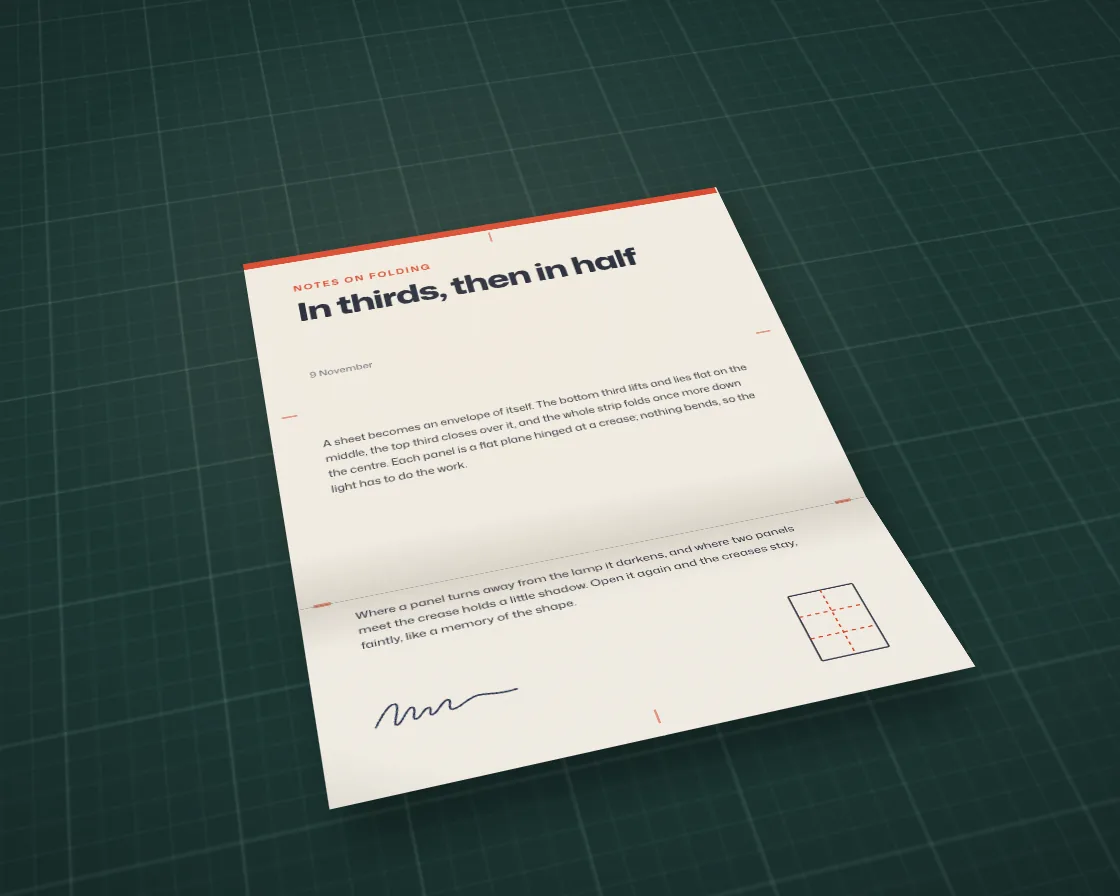
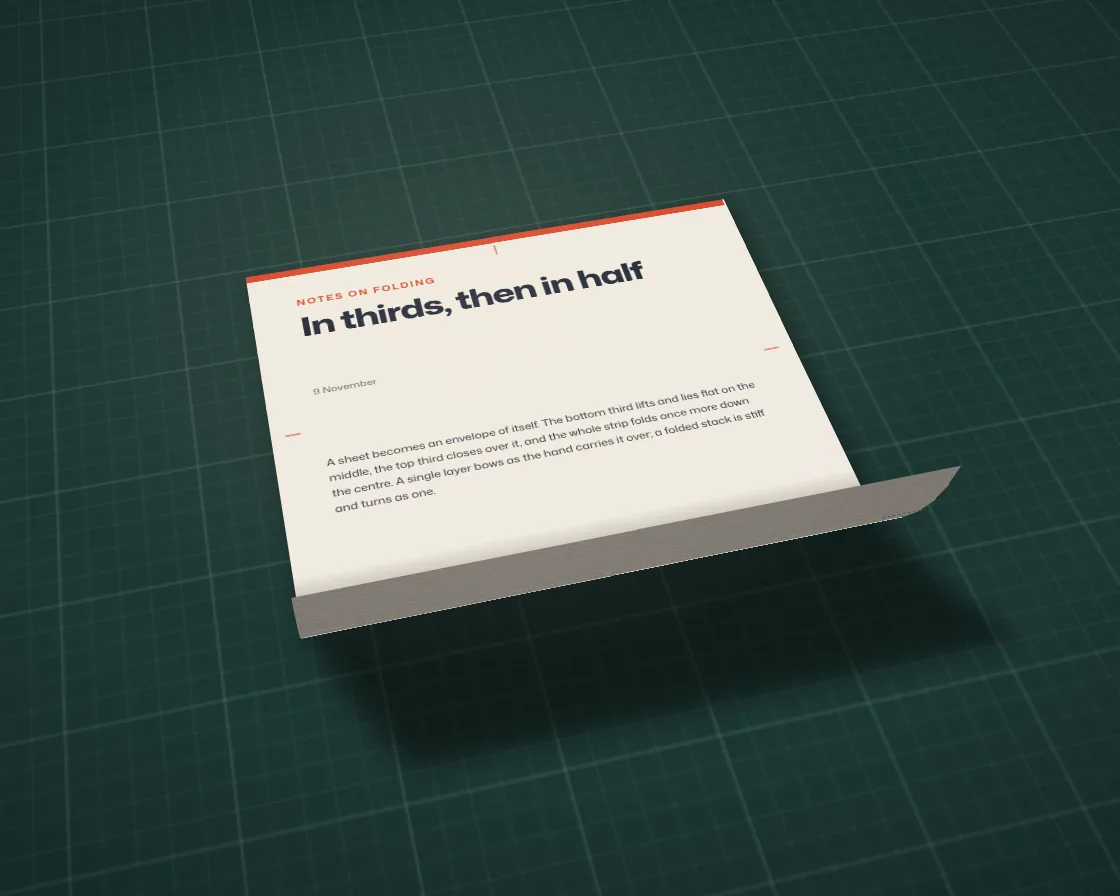
Paper fold: hand-paced folds, bowing flaps, per-panel shadows
Every crease turns on a minimum-jerk path (peak panel speed 56-72 -> 15-20 px/frame at 1280x760,
frame-to-frame jolts under 1 px); steps overlap; loose flaps are strip chains that bow edge-first
with gradient shading across strips; each panel casts a projected shadow; the recentring slide
follows the steps' progress. Default cycle 10 s.

diff --git a/anims/chrome/paper-fold.js b/anims/chrome/paper-fold.js
@@ -4,8 +4,12 @@
 // fold is a tree of hinges: the crease folded last is the outermost hinge and carries everything already folded, so the
 // stack lands the way paper does, its layers in the right order. Every panel is shaded from its true 3D normal, turned
 // through its hinges, against a desk lamp; creases darken on the inside, catch the light on the outside and stay faintly
-// marked; the shadow on the mat follows the folded footprint, and the sheet slides to keep that footprint centred.
-const PARAMS = { fold: 0, cycle: 9, tilt: 46, crease: 1 };
+// marked. The motion is a hand's: every crease turns on a minimum-jerk path, so it leaves and lands with no sudden change
+// of speed; each step starts just before the last one settles; a loose flap (one layer) is a chain of thin strips that
+// bows as it is carried over, edge first, and lies flat when it lands, while a folded stack stays stiff. Each panel
+// casts its own shadow onto the mat along the lamp's direction, and the sheet slides to keep its footprint centred,
+// in step with the folds.
+const PARAMS = { fold: 0, cycle: 10, tilt: 46, crease: 1 };
 
 export default function (stage) {
   const root = document.createElement('div');
@@ -20,11 +24,14 @@ export default function (stage) {
       linear-gradient(90deg,rgba(220,255,240,.11) 1px,transparent 1px) 0 0/calc(var(--g)*5) calc(var(--g)*5),
       linear-gradient(rgba(220,255,240,.045) 1px,transparent 1px) 0 0/var(--g) var(--g),
       linear-gradient(90deg,rgba(220,255,240,.045) 1px,transparent 1px) 0 0/var(--g) var(--g),#1c3633}
-    .pf-shadow{position:absolute;background:rgba(4,10,9,.9);filter:blur(calc(var(--h)*.025));border-radius:2px;transform-origin:0 0}
+    .pf-shs{position:absolute;left:0;top:0;transform:translateZ(-1px);filter:blur(calc(var(--h)*.016));opacity:.55}
+    .pf-sh{position:absolute;left:0;top:0;width:100px;height:100px;background:#030807;transform-origin:0 0}
     .pf-n,.pf-p{position:absolute;transform-style:preserve-3d}
     .pf-face{position:absolute;inset:-.5px;overflow:hidden;backface-visibility:hidden;-webkit-backface-visibility:hidden;background:${paper},#f3efe6}
     .pf-back{transform:rotateY(180deg);background:repeating-linear-gradient(45deg,rgba(60,90,140,.07) 0 1px,transparent 1px 4px),repeating-linear-gradient(-45deg,rgba(60,90,140,.05) 0 1px,transparent 1px 4px),${paper},#ebe7de}
     .pf-art{position:absolute;width:var(--w);height:var(--h);font-family:"Mona Sans",system-ui,sans-serif;color:#1b2233}
+    .pf-fx{--dk:linear-gradient(transparent,transparent);--lt:var(--dk);background:var(--dk),var(--lt),${paper},#f3efe6}
+    .pf-fx.pf-back{background:var(--dk),var(--lt),repeating-linear-gradient(45deg,rgba(60,90,140,.07) 0 1px,transparent 1px 4px),repeating-linear-gradient(-45deg,rgba(60,90,140,.05) 0 1px,transparent 1px 4px),${paper},#ebe7de}
     .pf-o{position:absolute;inset:0;opacity:0;pointer-events:none}
     .pf-dk{background:#1a120c}.pf-lt{background:#fff8ec}
     .pf-c{position:absolute;opacity:0;pointer-events:none}
@@ -41,16 +48,16 @@ export default function (stage) {
     .pf-map{position:absolute;inset:0;width:100%;height:100%}
     .pf-lamp{position:absolute;inset:0;pointer-events:none;background:radial-gradient(60% 55% at 42% 36%,rgba(255,236,205,.13),transparent 70%),radial-gradient(130% 110% at 50% 45%,transparent 38%,rgba(0,0,0,.62))}
   </style>
-  <div class="pf-scene"><div class="pf-mat"></div><div class="pf-shadow"></div></div><div class="pf-lamp"></div>`;
+  <div class="pf-scene"><div class="pf-mat"></div><div class="pf-shs"></div></div><div class="pf-lamp"></div>`;
   stage.append(root);
-  const scene = root.querySelector('.pf-scene'), mat = root.querySelector('.pf-mat'), shadow = root.querySelector('.pf-shadow');
+  const scene = root.querySelector('.pf-scene'), mat = root.querySelector('.pf-mat'), shadows = root.querySelector('.pf-shs');
 
   // ── the printed side of each sheet: one full-size layout, cropped into every panel
   const sig = `<svg class="pf-sig" viewBox="0 0 120 40" fill="none" stroke="#24304f" stroke-width="1.6" stroke-linecap="round"><path d="M4 28c8-14 14-22 18-20s-6 22-2 22 10-16 14-15-3 13 1 13 7-9 11-9-2 8 2 8 9-12 14-12c4 0-3 11 2 11 6 0 14-9 22-9s14 4 30 2"/></svg>`;
   const ticks = (xs, ys) => xs.map(x => `<i class="pf-tick" style="left:${x}%;top:1.8%;width:1px;height:2.2%"></i><i class="pf-tick" style="left:${x}%;bottom:1.5%;width:1px;height:2.2%"></i>`).join('')
     + ys.map(y => `<i class="pf-tick" style="left:2.5%;top:${y}%;width:3%;height:1px"></i><i class="pf-tick" style="right:2.5%;top:${y}%;width:3%;height:1px"></i>`).join('');
   const LETTER = `<div class="pf-band"></div><div class="pf-kick">Notes on folding</div><div class="pf-title">In thirds, then in half</div><div class="pf-date">9 November</div>
-    <p class="pf-txt" style="top:38.5%">A sheet becomes an envelope of itself. The bottom third lifts and lies flat on the middle, the top third closes over it, and the whole strip folds once more down the centre. Each panel is a flat plane hinged at a crease; nothing bends, so the light has to do the work.</p>
+    <p class="pf-txt" style="top:38.5%">A sheet becomes an envelope of itself. The bottom third lifts and lies flat on the middle, the top third closes over it, and the whole strip folds once more down the centre. A single layer bows as the hand carries it over; a folded stack is stiff and turns as one.</p>
     <p class="pf-txt" style="top:68.5%">Where a panel turns away from the lamp it darkens, and where two panels meet the crease holds a little shadow. Open it again and the creases stay, faintly, like a memory of the shape.</p>
     ${sig}<svg class="pf-diag" viewBox="0 0 60 76" fill="none" stroke="#2e3342" stroke-width="1.2"><rect x="6" y="4" width="48" height="66" rx="1"/><path d="M6 26h48M6 48h48M30 4v66" stroke-dasharray="3 3" stroke="#d8452b"/></svg>
     ${ticks([50], [33.33, 66.67])}`;
@@ -101,21 +108,21 @@ export default function (stage) {
   const zig = (xs, i) => ({ r: [xs[i], 0, 1, 1], h: ['v', xs[i], 0, i % 2 ? -1 : 1, 0, 0.8], p: [[xs[i], 0, xs[i + 1], 1]], k: i + 2 < xs.length ? [zig(xs, i + 1)] : [] });
   const T = 1 / 3, X6 = [0, 1, 2, 3, 4, 5, 6].map(i => i / 6), X4 = [0, 0.25, 0.5, 0.75, 1];
   const FOLDS = [
-    { aspect: 0.773, amount: 1, steps: [[0], [1], [2]], gap: 0.85, art: LETTER,              // bottom up, top down, in half
+    { aspect: 0.773, amount: 1, steps: [[0], [1], [2]], gap: 0.8, art: LETTER, flex: 1,        // bottom up, top down, in half
       root: { r: [0, 0, 1, 1], p: [[0, T, 0.5, 2 * T]], k: [
         { r: [0, 0, 0.5, T], h: ['h', T, 1, 1, 1], p: [[0, 0, 0.5, T]] },
         { r: [0, 2 * T, 0.5, 1], h: ['h', 2 * T, 0, 1, 0.5], p: [[0, 2 * T, 0.5, 1]] },
         { r: [0.5, 0, 1, 1], h: ['v', 0.5, 2, 1, 3], p: [[0.5, T, 1, 2 * T]], k: [
           { r: [0.5, 0, 1, T], h: ['h', T, 1, 1, 1], p: [[0.5, 0, 1, T]] },
           { r: [0.5, 2 * T, 1, 1], h: ['h', 2 * T, 0, 1, 0.5], p: [[0.5, 2 * T, 1, 1]] }] }] } },
-    { aspect: 1.55, amount: 1, steps: [[0], [1], [2]], gap: 0.7, art: GATE,                  // left door, right door, shut
+    { aspect: 1.55, amount: 1, steps: [[0], [1], [2]], gap: 0.78, art: GATE, flex: 1,            // left door, right door, shut
       root: { r: [0, 0, 1, 1], p: [[0.25, 0, 0.5, 1]], k: [
         { r: [0, 0, 0.25, 1], h: ['v', 0.25, 0, 1, 1], p: [[0, 0, 0.25, 1]] },
         { r: [0.5, 0, 1, 1], h: ['v', 0.5, 2, 1, 3], p: [[0.5, 0, 0.75, 1]], k: [
           { r: [0.75, 0, 1, 1], h: ['v', 0.75, 1, 1, 1.6], p: [[0.75, 0, 1, 1]] }] }] } },
     { aspect: 1.85, amount: 1, steps: [[0]], gap: 1, art: ACCORDION,                          // the pleats close up together
       root: { r: [0, 0, 1, 1], h: ['v', 0, 0, 1, 0, 0.4], p: [[0, 0, X6[1], 1]], k: [zig(X6, 1)] } },
-    { aspect: 1.414, amount: 1, steps: [[0, 1, 2], [3]], gap: 1, art: MAP,                    // pleat side to side, then in half
+    { aspect: 1.414, amount: 1, steps: [[0, 1, 2], [3]], gap: 0.85, art: MAP,                    // pleat side to side, then in half
       root: { r: [0, 0, 1, 1], p: [[0, 0, 0.25, 0.5]], k: [pleat(X4, 1, 0, 0.5, [0, 1, 2], [1, -1, 1], 0.8),
         { r: [0, 0.5, 1, 1], h: ['h', 0.5, 3, 1, 6], p: [[0, 0.5, 0.25, 1]], k: [pleat(X4, 1, 0.5, 1, [0, 1, 2], [1, -1, 1], 0.8)] }] } },
   ];
@@ -125,6 +132,21 @@ export default function (stage) {
   const creases = new Map(), key = (ax, v) => ax + v.toFixed(4);
   const amt = h => h[5] ?? F.amount, creaseAmt = [];
   (function walk(nd) { if (nd.h && nd.h[1] > 1e-6 && nd.h[1] < 1 - 1e-6) { creases.set(key(nd.h[0], nd.h[1]), nd.h[2]); creaseAmt[nd.h[2]] = amt(nd.h); } (nd.k || []).forEach(walk); })(F.root);
+  // ── paper lifted by its edge bows: the hand leads and the paper near the crease follows. Each loose flap (one layer,
+  // nothing folded onto it) is cut into NS strips parallel to its crease, each hinged to the one before, and bends by
+  // FLEX radians in all at the middle of its turn, none at either end; a folded stack is stiff and turns flat
+  const FLEX = 0.5, NS = 6;
+  if (F.flex) (function split(nd) {
+    (nd.k || []).forEach(split);
+    if (!nd.h || (nd.k && nd.k.length) || nd.p.length !== 1) return;
+    const [ax, at, id] = nd.h, pr = nd.p[0], vert = ax === 'v', lo = vert ? pr[0] : pr[1], hi = vert ? pr[2] : pr[3], fromLo = Math.abs(lo - at) < 1e-6;
+    const cut = i => fromLo ? lo + (hi - lo) * i / NS : hi - (hi - lo) * i / NS;           // the i-th cut, out from the crease
+    const rect = (a, b) => { const u = Math.min(a, b), w = Math.max(a, b); return vert ? [u, pr[1], w, pr[3]] : [pr[0], u, pr[2], w]; };
+    const sd = vert ? (fromLo ? 'left' : 'right') : (fromLo ? 'top' : 'bottom');
+    const flap = {}; nd.p = [rect(cut(0), cut(1))]; nd.flex = { k: 0, sd, flap };
+    let host = nd;
+    for (let i = 1; i < NS; i++) { const c = { r: rect(cut(i), cut(NS)), h: [ax, cut(i), id, nd.h[3], 0], p: [rect(cut(i), cut(i + 1))], flex: { k: i, sd, flap } }; host.k = [c]; host = c; }
+  })(F.root);
   const NC = Math.max(...F.steps.flat()) + 1, e = new Float32Array(NC), memory = new Float32Array(NC);
   const nodes = [], panels = [], faces = [];
   const edgeFill = { top: 'linear-gradient(to bottom,C,transparent)', bottom: 'linear-gradient(to top,C,transparent)', left: 'linear-gradient(to right,C,transparent)', right: 'linear-gradient(to left,C,transparent)' };
@@ -137,26 +159,39 @@ export default function (stage) {
     for (const pr of nd.p) {
       const p = document.createElement('div'); p.className = 'pf-p'; el.append(p);
       const sides = [];
-      for (const [ax, v, s] of [['h', pr[1], 'top'], ['h', pr[3], 'bottom'], ['v', pr[0], 'left'], ['v', pr[2], 'right']]) { const id = creases.get(key(ax, v)); if (id !== undefined) sides.push([s, id]); }
+      for (const [ax, v, s] of [['h', pr[1], 'top'], ['h', pr[3], 'bottom'], ['v', pr[0], 'left'], ['v', pr[2], 'right']]) { const id = creases.get(key(ax, v)); if (id !== undefined && !(nd.flex && nd.flex.sd === s)) sides.push([s, id]); }
+      if (nd.flex && nd.flex.k / NS < 0.3) sides.push([nd.flex.sd, nd.h[2], nd.flex.k]);
+      // a flex strip reaches 2.5px under the next one, so their soft edges never let what is behind show through the seam
+      const far = nd.flex && nd.flex.k < NS - 1 ? { top: 'bottom', bottom: 'top', left: 'right', right: 'left' }[nd.flex.sd] : '';
       for (const back of [false, true]) {
-        const f = document.createElement('div'); f.className = 'pf-face' + (back ? ' pf-back' : '');
+        const f = document.createElement('div'); f.className = 'pf-face' + (back ? ' pf-back' : ''); if (far) f.style[far] = '-2.5px';
         let art = null; if (!back) { art = document.createElement('div'); art.className = 'pf-art'; art.innerHTML = F.art; f.append(art); }
-        const strips = sides.map(([sd0, id]) => {
+        const strips = sides.map(([sd0, id, k]) => {
           const s = document.createElement('div'); s.className = 'pf-c';
           const sd = back && (sd0 === 'left' || sd0 === 'right') ? (sd0 === 'left' ? 'right' : 'left') : sd0;   // the back is mirrored left to right
           const horiz = sd === 'top' || sd === 'bottom';
-          s.style.cssText = `${sd}:0;${horiz ? 'left:0;right:0;height:26%' : 'top:0;bottom:0;width:30%'};background:${edgeFill[sd].replace('C', back ? 'rgba(255,250,240,.75)' : 'rgba(45,30,18,.6)')}`;
+          const sc = k === undefined ? 1 : NS, off = k === undefined ? 0 : -k * 100;                 // a flex strip shows its share of the flap's gradient
+          s.style.cssText = `${sd}:${off}%;${horiz ? `left:0;right:0;height:${26 * sc}%` : `top:0;bottom:0;width:${30 * sc}%`};background:${edgeFill[sd].replace('C', back ? 'rgba(255,250,240,.75)' : 'rgba(45,30,18,.6)')}`;
           f.append(s); return { s, id };
         });
         const dk = document.createElement('div'); dk.className = 'pf-o pf-dk'; const lt = document.createElement('div'); lt.className = 'pf-o pf-lt'; f.append(dk, lt);
-        p.append(f); faces.push({ back, dk, lt, strips, chain });
+        // a flex strip's shading runs as a gradient from its crease-side edge to its far edge (below), so the bend reads
+        // as one smooth curve; the back is turned over left to right, so its gradient runs the other way
+        const sdf = nd.flex ? (back && (nd.flex.sd === 'left' || nd.flex.sd === 'right') ? (nd.flex.sd === 'left' ? 'right' : 'left') : nd.flex.sd) : '';
+        const to = { top: 'bottom', bottom: 'top', left: 'right', right: 'left' }[sdf];
+        // (painted in the face's own background, not by the overlays: a strip is a fractional number of pixels tall,
+        // and an overlay child is clipped to whole pixels, which left a bright hairline of unshaded paper at its edge)
+        if (nd.flex) { f.classList.add('pf-fx'); dk.remove(); lt.remove(); }
+        p.append(f); faces.push({ f, back, dk, lt, strips, chain, flex: nd.flex ? { to, flap: nd.flex.flap, k: nd.flex.k } : null, d: 0 });
       }
-      panels.push({ p, pr, node, chain, art: p.querySelector('.pf-art') });
+      panels.push({ p, pr, node, chain, art: p.querySelector('.pf-art'), dx: far === 'left' ? 2 : 0, dy: far === 'top' ? 2 : 0 });
     }
     (nd.k || []).forEach(c => build(c, el, node));
   }
   build(F.root, scene, null);
   const sheet = nodes[0].el;
+  for (const f of faces) if (f.flex) { const nb = k => faces.find(g => g.flex && g.flex.flap === f.flex.flap && g.back === f.back && g.flex.k === k); f.prev = nb(f.flex.k - 1); f.next = nb(f.flex.k + 1); }
+  for (const pn of panels) { pn.sh = document.createElement('div'); pn.sh.className = 'pf-sh'; shadows.append(pn.sh); }
 
   let W = 0, H = 0, Wp = 0, Hp = 0;
   const resize = () => {
@@ -172,39 +207,72 @@ export default function (stage) {
       Object.assign(n.el.style, { left: (r[0] - pr[0]) * Wp + 'px', top: (r[1] - pr[1]) * Hp + 'px', width: (r[2] - r[0]) * Wp + 'px', height: (r[3] - r[1]) * Hp + 'px' });
       if (n.nd.h) n.el.style.transformOrigin = n.nd.h[0] === 'v' ? `${(n.nd.h[1] - r[0]) * Wp}px 50%` : `50% ${(n.nd.h[1] - r[1]) * Hp}px`;
     }
-    for (const { p, pr, node, art } of panels) {
+    for (const { p, pr, node, art, dx, dy } of panels) {
       const r = node.nd.r;
       Object.assign(p.style, { left: (pr[0] - r[0]) * Wp + 'px', top: (pr[1] - r[1]) * Hp + 'px', width: (pr[2] - pr[0]) * Wp + 'px', height: (pr[3] - pr[1]) * Hp + 'px' });
-      art.style.left = -pr[0] * Wp + 'px'; art.style.top = -pr[1] * Hp + 'px';
+      art.style.left = -pr[0] * Wp + dx + 'px'; art.style.top = -pr[1] * Hp + dy + 'px';
     }
-    Object.assign(shadow.style, { width: Wp + 'px', height: Hp + 'px' });
+    // where the folded sheet's footprint is centred after each step, so the slide that keeps it centred can follow
+    // the steps' own progress instead of the footprint's corners, which race whenever a panel stands on edge
+    const keep = e.slice();
+    for (let k = 0; k <= S; k++) { e.fill(0); F.steps.forEach((ids, j) => { if (j < k) for (const id of ids) e[id] = 1; }); setAngles();
+      const b = footprint(); centre[k] = [(b[0] + b[1]) / 2 - Wp / 2, (b[2] + b[3]) / 2 - Hp / 2]; }
+    e.set(keep); setAngles();
     if (reduce) draw(0.16, 0);
   };
 
-  // strong ease-in-out, cubic-bezier(0.77, 0, 0.175, 1), solved by Newton steps
-  const bez = (x1, y1, x2, y2) => x => { let t = x; for (let i = 0; i < 8; i++) { const fx = 3 * x1 * t * (1 - t) ** 2 + 3 * x2 * t * t * (1 - t) + t ** 3 - x, dx = 3 * x1 * (1 - t) ** 2 + 6 * (x2 - x1) * t * (1 - t) + 3 * (1 - x2) * t * t; if (Math.abs(fx) < 1e-5 || dx < 1e-6) break; t = Math.min(1, Math.max(0, t - fx / dx)); } return 3 * y1 * t * (1 - t) ** 2 + 3 * y2 * t * t * (1 - t) + t ** 3; };
-  const ease = bez(0.77, 0, 0.175, 1), seg = (c, a, b) => ease(Math.min(1, Math.max(0, (c - a) / (b - a))));
+  // A hand moving a thing from one place to another follows a minimum-jerk path (Flash and Hogan, 1985): it sets off
+  // and arrives with no sudden change in speed or in acceleration, and is at its fastest, 1.875 times the average, in
+  // the middle. Every crease turns along that curve, so a flap leaves the table gently, travels, and lands softly.
+  const dark = d => Math.min(0.5, Math.max(0, -d * 0.62)), light = d => Math.min(0.35, Math.max(0, d * 0.9));
+  const mj = x => x <= 0 ? 0 : x >= 1 ? 1 : x * x * x * (x * (x * 6 - 15) + 10);
   // rotations in CSS axes (y down, z toward the viewer)
   const rx = (a, v) => [v[0], v[1] * Math.cos(a) - v[2] * Math.sin(a), v[1] * Math.sin(a) + v[2] * Math.cos(a)];
   const ry = (a, v) => [v[0] * Math.cos(a) + v[2] * Math.sin(a), v[1], -v[0] * Math.sin(a) + v[2] * Math.cos(a)];
   const rz = (a, v) => [v[0] * Math.cos(a) - v[1] * Math.sin(a), v[0] * Math.sin(a) + v[1] * Math.cos(a), v[2]];
   const Ll = Math.hypot(-0.35, -0.75, 0.56), L = [-0.35 / Ll, -0.75 / Ll, 0.56 / Ll];
-  // the timetable: the steps fold in one after another over the first half of the cycle, rest, and open in reverse
-  const S = F.steps.length, D = 0.44 / (1 + (S - 1) * F.gap), Du = 0.31 / (1 + (S - 1) * F.gap);
+  // the timetable, in fractions of the cycle: the steps fold one after another from 0.04 to 0.48, each starting just
+  // before the last one has settled (gap), rest folded, open in reverse order from 0.55 to 0.93, and rest flat
+  const S = F.steps.length, Df = 0.44 / (1 + (S - 1) * F.gap), Do = 0.38 / (1 + (S - 1) * F.gap);
+  const sv = new Float32Array(S), centre = [];
+  // every hinge rides a quarter pixel above its parent: as a flap starts to lift it is still almost in the plane of the
+  // panel beside it, and without this the browser can't tell which is in front along their overlap, so the crease
+  // flickers into a dashed line
+  const Z0 = 0.25;
   // a point of the flat sheet (px), carried through a chain of hinges to where it is now
-  const carry = (pt, chain) => { let p = pt; for (const n of chain) { const h = n.nd.h, at = h[1] * (h[0] === 'v' ? Wp : Hp), lift = h[4] * e[h[2]];
+  const carry = (pt, chain) => { let p = pt; for (const n of chain) { const h = n.nd.h, at = h[1] * (h[0] === 'v' ? Wp : Hp), lift = h[4] * e[h[2]] + Z0;
     p = h[0] === 'v' ? ry(n.ang, [p[0] - at, p[1], p[2]]) : rx(n.ang, [p[0], p[1] - at, p[2]]); if (h[0] === 'v') p[0] += at; else p[1] += at; p[2] += lift; } return p; };
+  // a flap's bend leads the way it is moving: folding, its edge is ahead of its crease; opening, behind
+  let dir = 1;
+  function setAngles() {
+    for (const n of nodes) { const h = n.nd.h; if (!h) continue;
+      const m = e[h[2]], turn = Math.PI * amt(h) * m, bow = n.nd.flex ? FLEX * Math.sin(Math.PI * m) * dir : 0;
+      n.ang = h[3] * n.side * (!n.nd.flex ? turn : n.nd.flex.k === 0 ? turn - bow / 2 : bow / (NS - 1));
+    }
+  }
+  function footprint() {
+    let x0 = 1e9, x1 = -1e9, y0 = 1e9, y1 = -1e9;
+    for (const { pr, chain } of panels) for (const [u, w] of [[pr[0], pr[1]], [pr[2], pr[1]], [pr[0], pr[3]], [pr[2], pr[3]]]) {
+      const q = carry([u * Wp, w * Hp, 0], chain); x0 = Math.min(x0, q[0]); x1 = Math.max(x1, q[0]); y0 = Math.min(y0, q[1]); y1 = Math.max(y1, q[1]);
+    }
+    return [x0, x1, y0, y1];
+  }
 
   function draw(c, t) {
-    F.steps.forEach((ids, j) => { const a = 0.07 + j * D * F.gap, u = 0.62 + (S - 1 - j) * Du * F.gap, v = c < 0.565 ? seg(c, a, a + D) : 1 - seg(c, u, u + Du); for (const id of ids) e[id] = v; });
+    F.steps.forEach((ids, j) => {
+      const a = 0.04 + j * Df * F.gap, u = 0.55 + (S - 1 - j) * Do * F.gap;
+      const v = c < 0.515 ? mj((c - a) / Df) : 1 - mj((c - u) / Do);
+      sv[j] = v; for (const id of ids) e[id] = v;
+    });
     for (let i = 0; i < NC; i++) memory[i] = Math.max(memory[i], e[i]);
+    dir = c < 0.515 ? 1 : -1;
     const tilt = (PARAMS.tilt + Math.sin(t * 0.19) * 4) * Math.PI / 180, spin = (-16 + Math.sin(t * 0.23) * 9) * Math.PI / 180;
     scene.style.transform = `rotateX(${tilt}rad) rotateZ(${spin}rad)`;
+    setAngles();
     for (const n of nodes) {
       if (!n.nd.h) { n.tf = ''; continue; }
-      const h = n.nd.h, v = e[h[2]];
-      n.ang = h[3] * n.side * Math.PI * amt(h) * v;
-      n.tf = `translateZ(${(h[4] * v).toFixed(3)}px) ${h[0] === 'v' ? 'rotateY' : 'rotateX'}(${n.ang.toFixed(5)}rad)`;
+      const h = n.nd.h;
+      n.tf = `translateZ(${(h[4] * e[h[2]] + Z0).toFixed(3)}px) ${h[0] === 'v' ? 'rotateY' : 'rotateX'}(${n.ang.toFixed(5)}rad)`;
       if (n !== nodes[0]) n.el.style.transform = n.tf;
     }
     // shading: each face's normal through its hinges and the view tilt, against the lamp
@@ -213,23 +281,32 @@ export default function (stage) {
       let n = [0, 0, f.back ? -1 : 1];
       for (const q of f.chain) n = q.nd.h[0] === 'v' ? ry(q.ang, n) : rx(q.ang, n);
       n = rx(tilt, rz(spin, n));
-      const d = n[0] * L[0] + n[1] * L[1] + n[2] * L[2] - base;
-      f.dk.style.opacity = Math.min(0.62, Math.max(0, -d * 0.75)).toFixed(3); f.lt.style.opacity = Math.min(0.35, Math.max(0, d * 0.9)).toFixed(3);
+      const d = f.d = n[0] * L[0] + n[1] * L[1] + n[2] * L[2] - base;
+      if (!f.flex) { f.dk.style.opacity = dark(d).toFixed(3); f.lt.style.opacity = light(d).toFixed(3); }
       for (const { s, id } of f.strips) {
         const a = creaseAmt[id], v = f.back ? Math.sin(Math.PI * a * e[id] / 2) * 0.55 : Math.sin(Math.PI * a * e[id]) * 0.85;
         s.style.opacity = Math.min(1, K * (v + memory[id] * (f.back ? 0.1 : 0.16))).toFixed(3);
       }
     }
-    // the footprint of the folded sheet on the table: the shadow fills it, and the sheet slides to keep it centred
-    let x0 = 1e9, x1 = -1e9, y0 = 1e9, y1 = -1e9;
-    for (const { pr, chain } of panels) for (const [u, w] of [[pr[0], pr[1]], [pr[2], pr[1]], [pr[0], pr[3]], [pr[2], pr[3]]]) {
-      const q = carry([u * Wp, w * Hp, 0], chain); x0 = Math.min(x0, q[0]); x1 = Math.max(x1, q[0]); y0 = Math.min(y0, q[1]); y1 = Math.max(y1, q[1]);
+    for (const f of faces) if (f.flex) {
+      const d0 = f.prev ? (f.d + f.prev.d) / 2 : f.d, d1 = f.next ? (f.d + f.next.d) / 2 : f.d;
+      f.f.style.setProperty('--dk', `linear-gradient(to ${f.flex.to},rgba(26,18,12,${dark(d0).toFixed(3)}),rgba(26,18,12,${dark(d1).toFixed(3)}))`);
+      f.f.style.setProperty('--lt', `linear-gradient(to ${f.flex.to},rgba(255,248,236,${light(d0).toFixed(3)}),rgba(255,248,236,${light(d1).toFixed(3)}))`);
     }
-    const sx = -0.7 * ((x0 + x1) / 2 - Wp / 2), sy = -0.7 * ((y0 + y1) / 2 - Hp / 2);
+    // the sheet slides to keep its footprint near the middle of the view, blended step by step
+    let cx = centre[0][0], cy = centre[0][1];
+    for (let j = 0; j < S; j++) { cx += sv[j] * (centre[j + 1][0] - centre[j][0]); cy += sv[j] * (centre[j + 1][1] - centre[j][1]); }
+    const sx = -0.7 * cx, sy = -0.7 * cy;
     sheet.style.transform = `translate3d(${sx.toFixed(2)}px,${sy.toFixed(2)}px,0) ${nodes[0].tf}`;
-    let thick = 0; for (let i = 0; i < NC; i++) thick += e[i]; thick = Math.min(2, thick * 0.5);
-    shadow.style.transform = `translate3d(${(x0 - Wp / 2 + sx + Hp * 0.012 * (1 + thick)).toFixed(2)}px,${(y0 - Hp / 2 + sy + Hp * 0.018 * (1 + thick)).toFixed(2)}px,-1px) scale(${((x1 - x0) / Wp).toFixed(4)},${((y1 - y0) / Hp).toFixed(4)})`;
-    shadow.style.opacity = (0.42 + thick * 0.14).toFixed(3);
+    // shadows: every panel is cast onto the mat along the lamp's direction (a parallel projection, so each shadow is
+    // a parallelogram, one CSS matrix); the union is blurred once. Paper resting on the mat is treated as hovering a
+    // hair above it, so even the flat sheet keeps a soft edge on its shadowed side
+    const Ls = rz(-spin, rx(-tilt, L)), kx = Ls[0] / Math.max(0.2, Ls[2]), ky = Ls[1] / Math.max(0.2, Ls[2]), z0 = Hp * 0.022;
+    const ox = sx - Wp / 2, oy = sy - Hp / 2;
+    for (const { pr, chain, sh } of panels) {
+      const P = [[pr[0], pr[1]], [pr[2], pr[1]], [pr[0], pr[3]]].map(([u, w]) => { const q = carry([u * Wp, w * Hp, 0], chain), z = Math.max(0, q[2]) + z0; return [q[0] - kx * z + ox, q[1] - ky * z + oy]; });
+      sh.style.transform = `matrix(${((P[1][0] - P[0][0]) / 100).toFixed(5)},${((P[1][1] - P[0][1]) / 100).toFixed(5)},${((P[2][0] - P[0][0]) / 100).toFixed(5)},${((P[2][1] - P[0][1]) / 100).toFixed(5)},${P[0][0].toFixed(2)},${P[0][1].toFixed(2)})`;
+    }
   }
   const ro = new ResizeObserver(resize); ro.observe(stage); resize();
 

diff --git a/anims/registry-more.js b/anims/registry-more.js
@@ -145,7 +145,7 @@ export const MORE = [
     params: { hold: P(0.3, 4, 0.1, 'Hold (s)'), morph: P(0.3, 3, 0.1, 'Morph (s)'), twist: P(0, 3, 0.05, 'Twist') } },
   { id: 'paper-fold', cat: 'chrome', title: 'Paper fold', kind: 'dom', posterAt: 950,
     trick: 'A tree of CSS 3D hinges: the last crease carries the rest',
-    notes: ['A printed sheet folds and opens on a desk: as a letter, a gate fold, an accordion or a map.', 'Each crease is a preserve-3d hinge nested so the last fold carries the others; every face is shaded from its normal turned through its hinges.'],
+    notes: ['A printed sheet folds and opens on a desk: as a letter, a gate fold, an accordion or a map.', 'Each crease is a nested preserve-3d hinge, so the last fold carries the rest; loose flaps are chains of strips that bow as they turn, and every crease follows the minimum-jerk path of a hand.'],
     params: { fold: O('Fold', 'Letter', 'Gate', 'Accordion', 'Map'), cycle: P(4, 20, 0.5, 'Cycle (s)'), tilt: P(0, 70, 1, 'Table tilt (deg)'), crease: P(0, 2, 0.05, 'Crease shading') } },
   // ── Flow & particles, round 3
   { id: 'murmuration', cat: 'flow', title: 'Starling murmuration', kind: 'canvas', posterAt: 4200,

diff --git a/anims/i18n-fr.js b/anims/i18n-fr.js
@@ -538,10 +538,10 @@ export const FR = {
  },
  "paper-fold": {
   "title": "Pliage de papier",
-  "trick": "Un arbre de charnières CSS 3D : le dernier pli emporte les autres",
+  "trick": "Un arbre de charnières CSS 3D : le dernier pli emporte les autres",
   "notes": [
-   "Une feuille imprimée se plie et se déplie sur un bureau : en lettre, en fenêtre, en accordéon ou en carte.",
-   "Chaque pli est une charnière preserve-3d imbriquée pour que le dernier emporte les autres ; chaque face est ombrée selon sa normale tournée par ses charnières."
+   "Une feuille imprimée se plie et se déplie sur un bureau : en lettre, en fenêtre, en accordéon ou en carte.",
+   "Chaque pli est une charnière preserve-3d imbriquée, si bien que le dernier emporte les autres ; les rabats libres sont des chaînes de bandes qui se courbent en tournant, et chaque pli suit la trajectoire à secousse minimale d’une main."
   ]
  },
  "menger-sponge": {

diff --git a/anims/i18n-es.js b/anims/i18n-es.js
@@ -541,7 +541,7 @@ export const ES = {
   "trick": "Un árbol de bisagras CSS 3D: el último pliegue arrastra al resto",
   "notes": [
    "Una hoja impresa se pliega y se abre sobre la mesa: como carta, en ventana, en acordeón o como un mapa.",
-   "Cada pliegue es una bisagra preserve-3d anidada para que el último arrastre a los demás; cada cara se sombrea según su normal girada por sus bisagras."
+   "Cada pliegue es una bisagra preserve-3d anidada, así que el último arrastra al resto; las solapas sueltas son cadenas de tiras que se curvan al girar, y cada pliegue sigue la trayectoria de mínimo tirón de una mano."
   ]
  },
  "menger-sponge": {

diff --git a/anims/i18n-zh.js b/anims/i18n-zh.js
@@ -1469,7 +1469,7 @@ export const ZH = {
   "trick": "CSS 3D 铰链树：最后一道折痕带动其余部分",
   "notes": [
    "一张印刷纸在桌上折起又展开：可折成信件、对门折、风琴折或地图。",
-   "每道折痕都是嵌套的 preserve-3d 铰链，最后一折带动其余部分；每个面按经铰链旋转后的法线着色。"
+   "每道折痕都是嵌套的 preserve-3d 铰链，最后一折带动其余部分；单层纸片由一串细条组成，翻转时会弯曲，每道折痕都沿手部动作的最小加加速度轨迹运动。"
   ]
  },
  "menger-sponge": {
